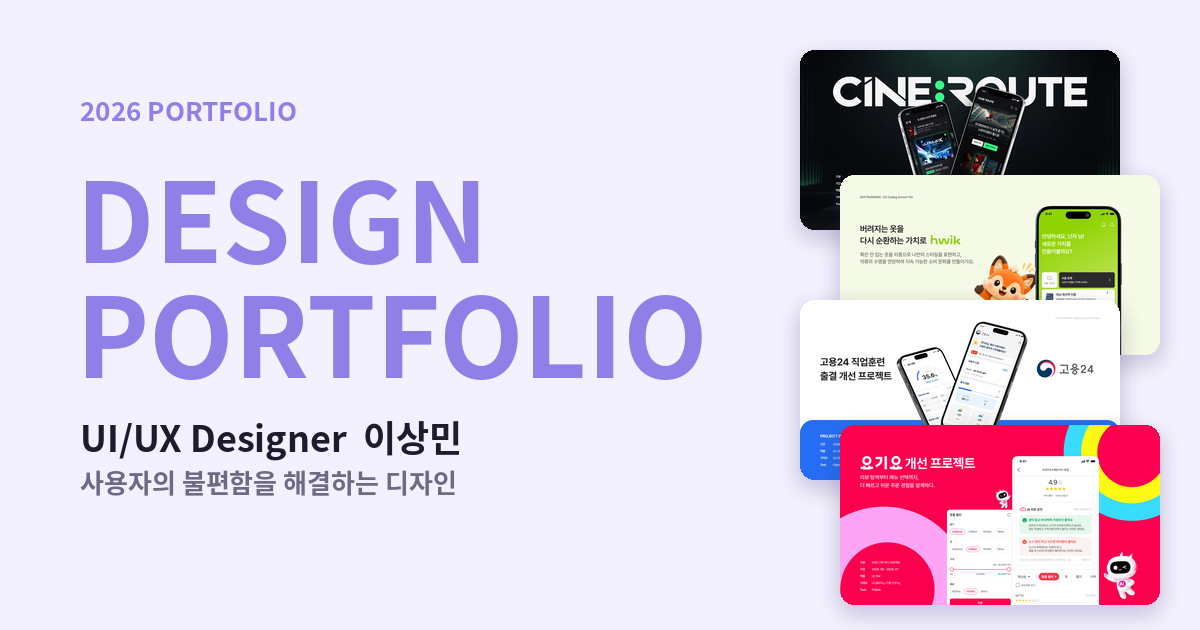
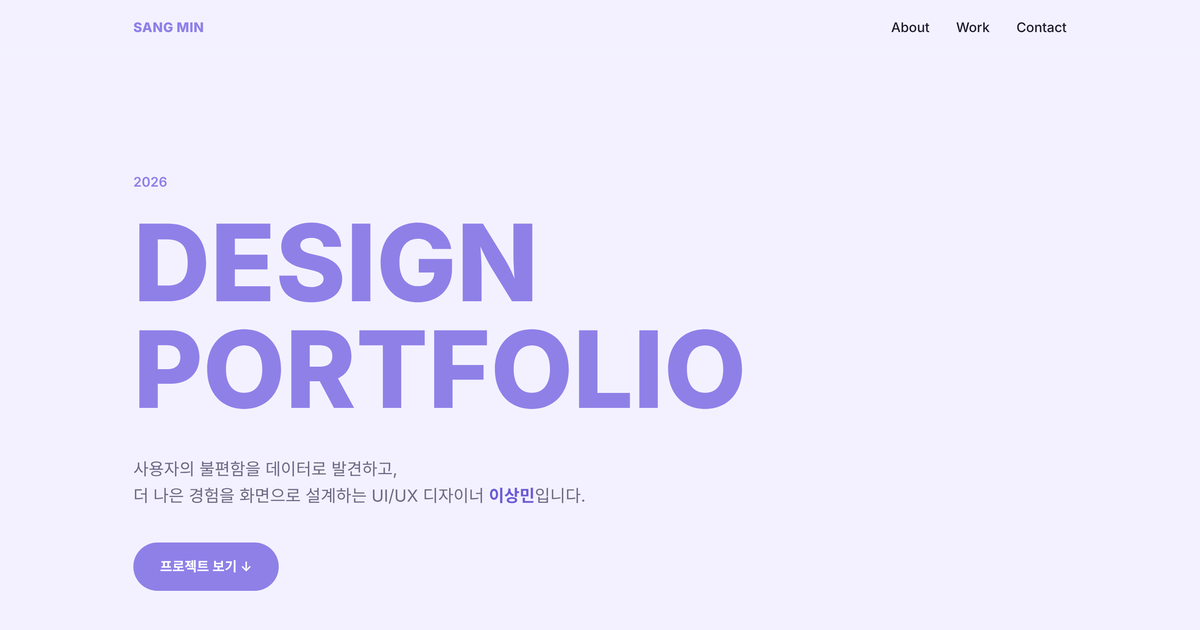
Add files via upload

diff --git a/index.html b/index.html
@@ -15,7 +15,7 @@
   <meta property="og:type" content="website">
   <meta property="og:title" content="LEE SANG MIN | UI/UX Designer">
   <meta property="og:description" content="UI/UX 디자이너 이상민의 포트폴리오">
-  <meta property="og:image" content="https://sngamin.github.io/images/og-image.png">
+  <meta property="og:image" content="https://sngamin.github.io/images/og-image.png?v=2">
   <meta property="og:url" content="https://sngamin.github.io/">
   <!-- Pretendard 웹폰트 (한글 + 영문 모두 깔끔) -->
   <link rel="stylesheet" href="https://cdn.jsdelivr.net/gh/orioncactus/pretendard/dist/web/static/pretendard.css">
@@ -30,7 +30,7 @@
       <nav>
         <ul class="menu">
           <li><a href="#about">About</a></li>
-          <li><a href="#work">Project</a></li>
+          <li><a href="#work">Work</a></li>
           <li><a href="#contact">Contact</a></li>
         </ul>
       </nav>

diff --git a/projects/cineroute.html b/projects/cineroute.html
@@ -15,7 +15,7 @@
   <meta property="og:type" content="website">
   <meta property="og:title" content="시네: 루트 | LEE SANG MIN">
   <meta property="og:description" content="영화의 특성과 사용자의 취향을 분석해, 나에게 가장 잘 맞는 특별관을 추천하는 개인화 서비스">
-  <meta property="og:image" content="https://sngamin.github.io/images/og-image.png">
+  <meta property="og:image" content="https://sngamin.github.io/images/og-image.png?v=2">
   <meta property="og:url" content="https://sngamin.github.io/projects/cineroute.html">
   <link rel="stylesheet" href="https://cdn.jsdelivr.net/gh/orioncactus/pretendard/dist/web/static/pretendard.css">
   <!-- 파일이 projects 폴더 안에 있으므로 ../ 로 한 단계 위 폴더로 나가서 css를 찾음 -->

diff --git a/projects/goyong24.html b/projects/goyong24.html
@@ -15,7 +15,7 @@
   <meta property="og:type" content="website">
   <meta property="og:title" content="고용24 직업훈련 출결관리 | LEE SANG MIN">
   <meta property="og:description" content="직업훈련 사용자의 출결 과정과 불편함을 분석해, 더 쉽고 편리한 출결 경험을 제공하는 개선 프로젝트">
-  <meta property="og:image" content="https://sngamin.github.io/images/og-image.png">
+  <meta property="og:image" content="https://sngamin.github.io/images/og-image.png?v=2">
   <meta property="og:url" content="https://sngamin.github.io/projects/goyong24.html">
   <link rel="stylesheet" href="https://cdn.jsdelivr.net/gh/orioncactus/pretendard/dist/web/static/pretendard.css">
   <link rel="stylesheet" href="../css/style.css">

diff --git a/projects/yogiyo.html b/projects/yogiyo.html
@@ -15,7 +15,7 @@
   <meta property="og:type" content="website">
   <meta property="og:title" content="요기요 개선 프로젝트 | LEE SANG MIN">
   <meta property="og:description" content="사용자의 메뉴 탐색과 선택 과정을 분석해, 빠르고 편리한 메뉴 선택 경험을 제공하는 UX 개선 프로젝트">
-  <meta property="og:image" content="https://sngamin.github.io/images/og-image.png">
+  <meta property="og:image" content="https://sngamin.github.io/images/og-image.png?v=2">
   <meta property="og:url" content="https://sngamin.github.io/projects/yogiyo.html">
   <link rel="stylesheet" href="https://cdn.jsdelivr.net/gh/orioncactus/pretendard/dist/web/static/pretendard.css">
   <link rel="stylesheet" href="../css/style.css">

diff --git a/projects/hwik.html b/projects/hwik.html
@@ -15,7 +15,7 @@
   <meta property="og:type" content="website">
   <meta property="og:title" content="휙 (hwik) | LEE SANG MIN">
   <meta property="og:description" content="안 입는 옷을 리폼으로 연결해, 옷의 새로운 가치를 만들어가는 의류 순환 플랫폼">
-  <meta property="og:image" content="https://sngamin.github.io/images/og-image.png">
+  <meta property="og:image" content="https://sngamin.github.io/images/og-image.png?v=2">
   <meta property="og:url" content="https://sngamin.github.io/projects/hwik.html">
   <link rel="stylesheet" href="https://cdn.jsdelivr.net/gh/orioncactus/pretendard/dist/web/static/pretendard.css">
   <link rel="stylesheet" href="../css/style.css">

diff --git a/css/project.css b/css/project.css
@@ -277,7 +277,6 @@
   .project-nav { grid-template-columns: 1fr; }
   .project-nav-link.next { text-align: left; }
 
-  /* 모바일 라이트박스: 이미지를 화면의 2.5배로 키우고 좌우·상하로 밀어서 보기 */
+  /* 모바일 라이트박스: 화면 폭에 딱 맞춰 이미지 전체를 보여줌 (세부는 두 손가락으로 확대) */
   .lightbox { padding: 64px 0 24px; }
-  .lightbox-img { width: 250%; max-width: none; }
 }
